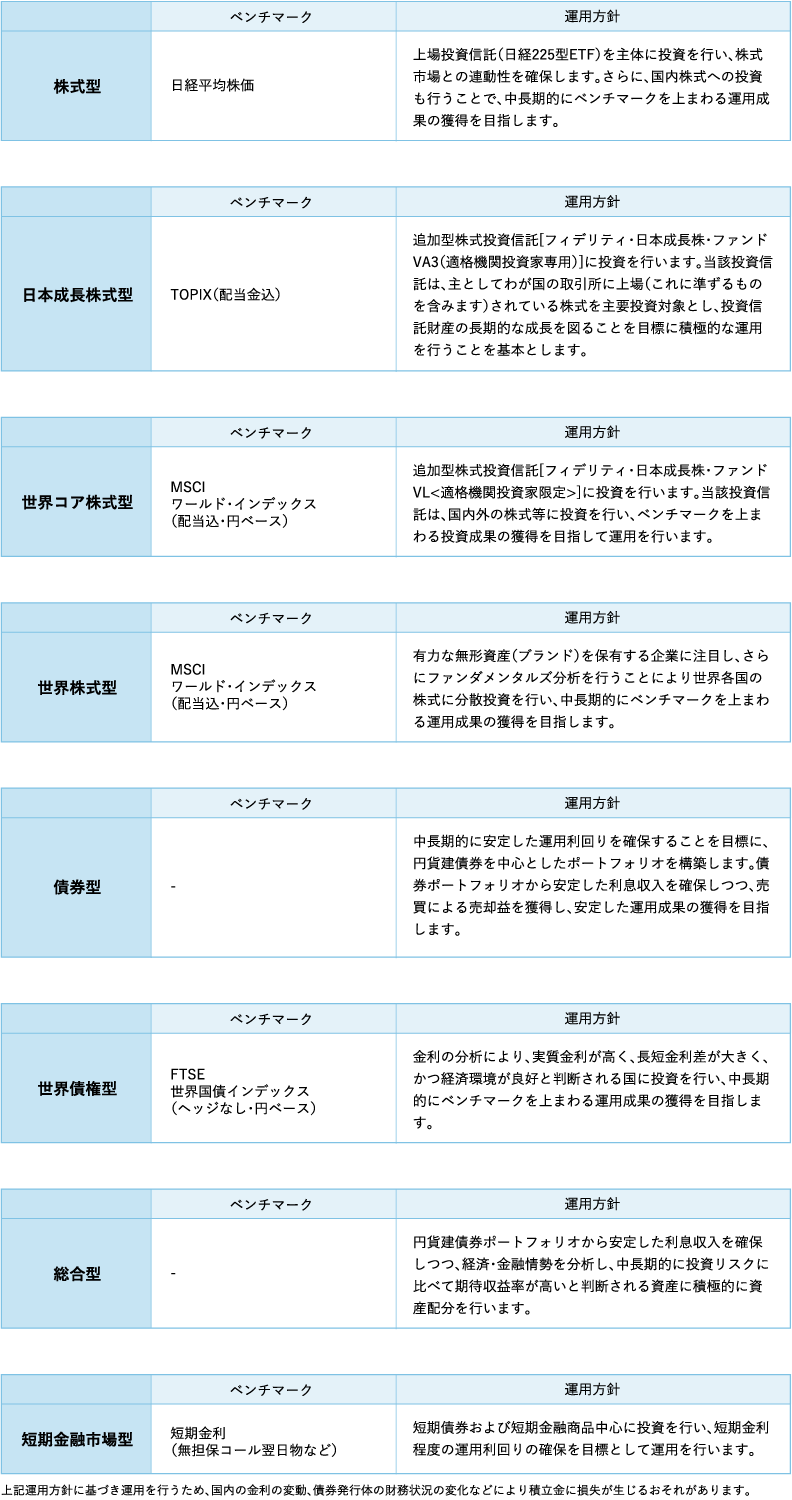
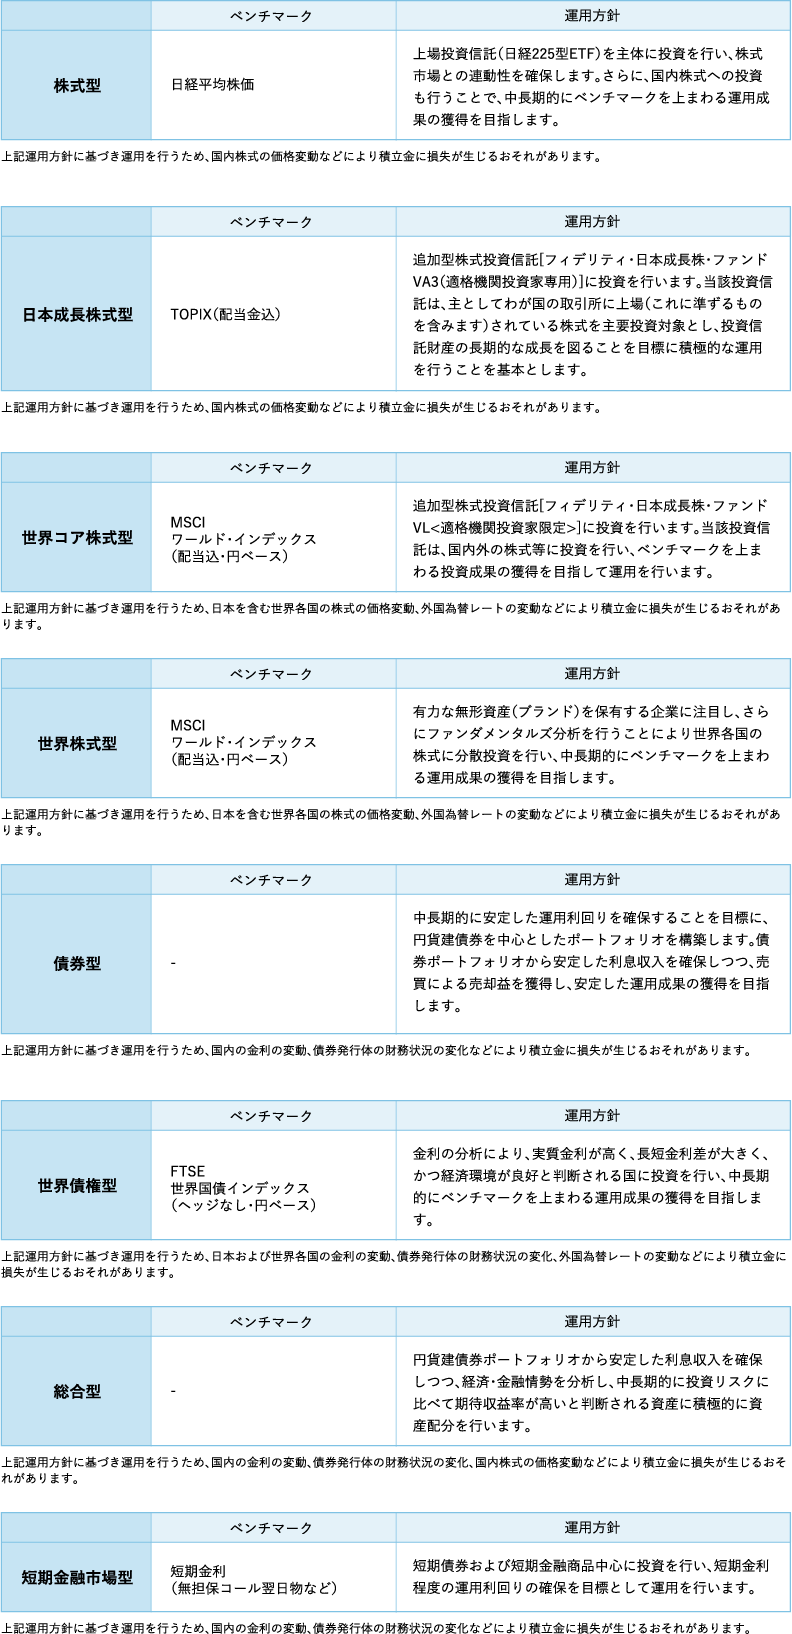
final change

Changed region(s): [[0.0, 0.0, 1.0, 1.0], [0.2121, 0.184, 0.3636, 0.2147]]

diff --git a/index.html b/index.html
@@ -145,7 +145,7 @@
                     <div class="content">
                         <div class="row contract_example">
                             <div class="contract_example-box">
-                                <p>ご契約例（月払の場合</p>
+                                <p>ご契約例（月払の場合)</p>
                             </div>
                             <p class="listing-text">●被保険者：35歳 ●基本年金額：100万円 ●年金種類：確定年金 ●年金支払期間：10年 ●年金支払開始年齢：60歳
                                 ●保険料払込期間：60歳まで ●個別扱月払保険料　男性：20,550円　女性：<br class="sp-item"> 20,490円</p>
@@ -222,6 +222,9 @@
                         </tr>
                         </tbody>
                     </table>
+                    <div class="table-sp-content">
+                        上記運用方針に基づき運用を行うため、国内株式の価格変動などにより積立金に損失が生じるおそれがあります。
+                    </div>
                     <!-- Table Two -->
                     <table class="table-sp" width="100%">
                         <tr>
@@ -249,6 +252,9 @@
                         </tr>
                         </tbody>
                     </table>
+                    <div class="table-sp-content">
+                        上記運用方針に基づき運用を行うため、国内株式の価格変動などにより積立金に損失が生じるおそれがあります。
+                    </div>
                     <!-- Table Three -->
                     <table class="table-sp" width="100%">
                         <tr>
@@ -279,6 +285,9 @@
                         </tr>
                         </tbody>
                     </table>
+                    <div class="table-sp-content">
+                        上記運用方針に基づき運用を行うため、日本を含む世界各国の株式の価格変動、外国為替レートの変動などにより積立金に損失が生じるおそれがあります。
+                    </div>
                     <!-- Table Four -->
                     <table class="table-sp" width="100%">
                         <tr>
@@ -308,6 +317,9 @@
                         </tr>
                         </tbody>
                     </table>
+                    <div class="table-sp-content">
+                        上記運用方針に基づき運用を行うため、日本を含む世界各国の株式の価格変動、外国為替レートの変動などにより積立金に損失が生じるおそれがあります。
+                    </div>
                     <!-- Table Five -->
                     <table class="table-sp" width="100%">
                         <tr>
@@ -334,6 +346,9 @@
                         </tr>
                         </tbody>
                     </table>
+                    <div class="table-sp-content">
+                        上記運用方針に基づき運用を行うため、国内の金利の変動、債券発行体の財務状況の変化などにより積立金に損失が生じるおそれがあります。
+                    </div>
                     <!-- Table Six -->
                     <table class="table-sp" width="100%">
                         <tr>
@@ -363,6 +378,9 @@
                         </tr>
                         </tbody>
                     </table>
+                    <div class="table-sp-content">
+                        上記運用方針に基づき運用を行うため、日本および世界各国の金利の変動、債券発行体の財務状況の変化、外国為替レートの変動などにより積立金に損失が生じるおそれがあります。
+                    </div>
                     <!-- Table Seven -->
                     <table class="table-sp" width="100%">
                         <tr>
@@ -389,6 +407,9 @@
                         </tr>
                         </tbody>
                     </table>
+                    <div class="table-sp-content">
+                        上記運用方針に基づき運用を行うため、国内の金利の変動、債券発行体の財務状況の変化、国内株式の価格変動などにより積立金に損失が生じるおそれがあります。
+                    </div>
                     <!-- Table Eight -->
                     <table class="table-sp" width="100%">
                         <tr>
@@ -539,7 +560,7 @@
                 </ul>
                 <hr>
                 <ul class="listing">
-                    <li>高齢者や基礎疾患があるお客さまとの面談は、極力リモートでの対応をご案内す</li>
+                    <li>高齢者や基礎疾患があるお客さまとの面談は、極力リモートでの対応をご案内する</li>
                 </ul>
             </div>
         </div>
@@ -618,10 +639,14 @@
                     どちらかをお選びいただけます。
                 </div>
                 <div class="txt-small pc-item">
-                    <span style="color: #FFFF00">
-                        直接お会いしてのご相談・オンラインでのご相談、
-                    </span> <br>
-                    どちらかをお選びいただけます。
+                    <div class="word-wrapper">
+                        <div class="word1">
+                            直接お会いしてのご相談・オンラインでのご相談、
+                        </div>
+                       <div>
+                           どちらかをお選びいただけます。
+                       </div>
+                    </div>
                 </div>
 
                 <img class="header-img" src="assets/img/arrow-up-white.png" alt>

diff --git a/assets/css/style.css b/assets/css/style.css
@@ -1974,7 +1974,16 @@ table, th, td {
         font-size: 34px;
         line-height: 61px;
     }
-
+    .word-wrapper {
+        display: flex;
+        padding-left: 125px;
+        font-size: 20px;
+        line-height: 28px;
+    }
+    .word-wrapper > .word1 {
+        color: #FFFF00;
+        margin-right:50px;
+    }
     .consult-flow__header > .header-img {
         position: absolute;
         top: 96px;
